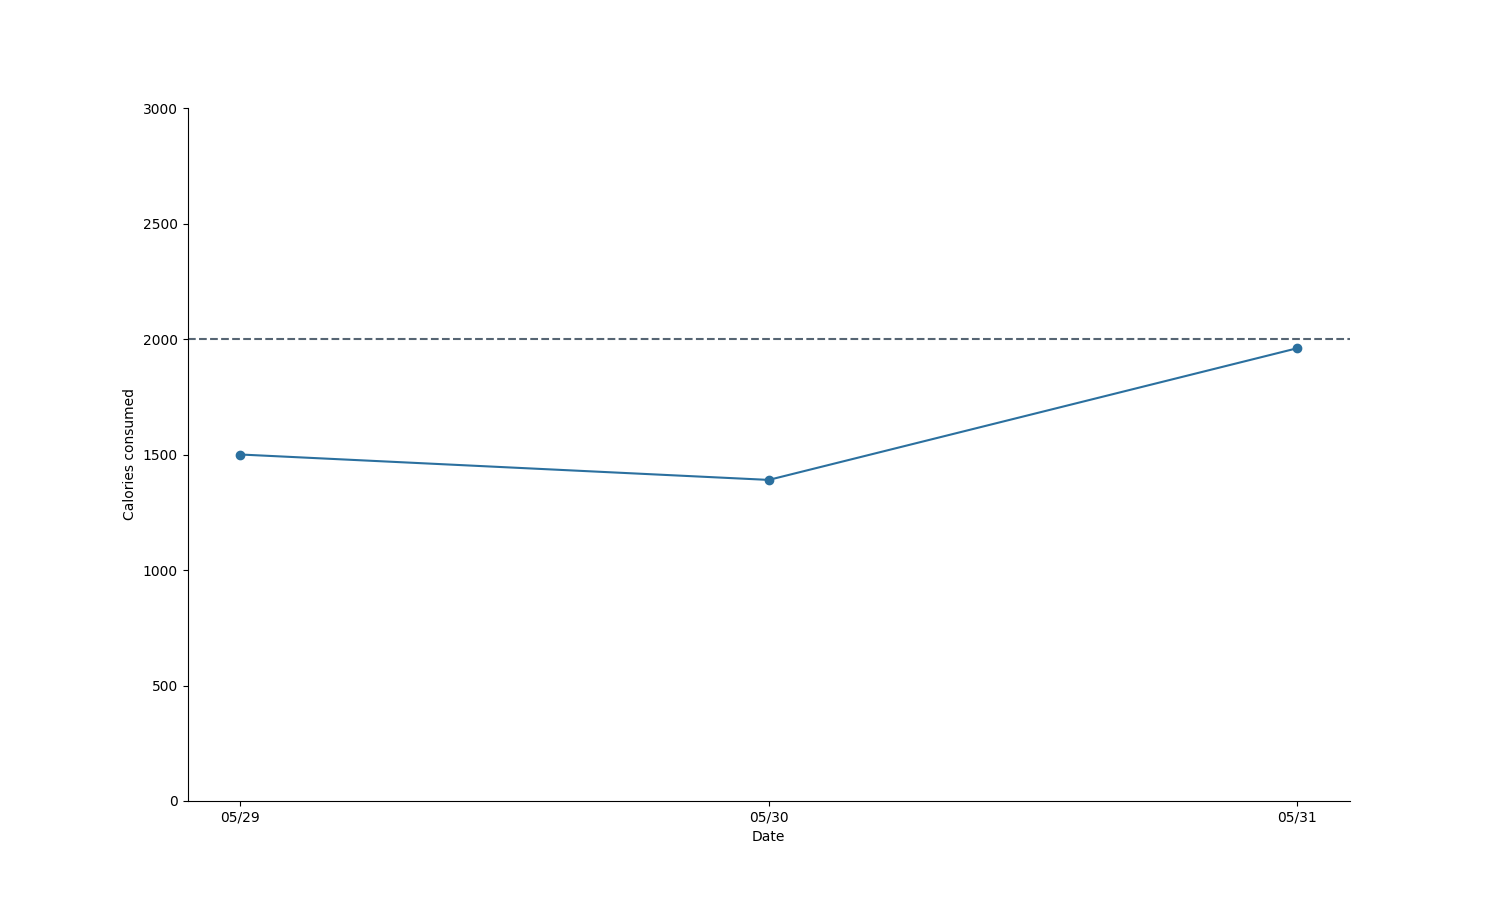
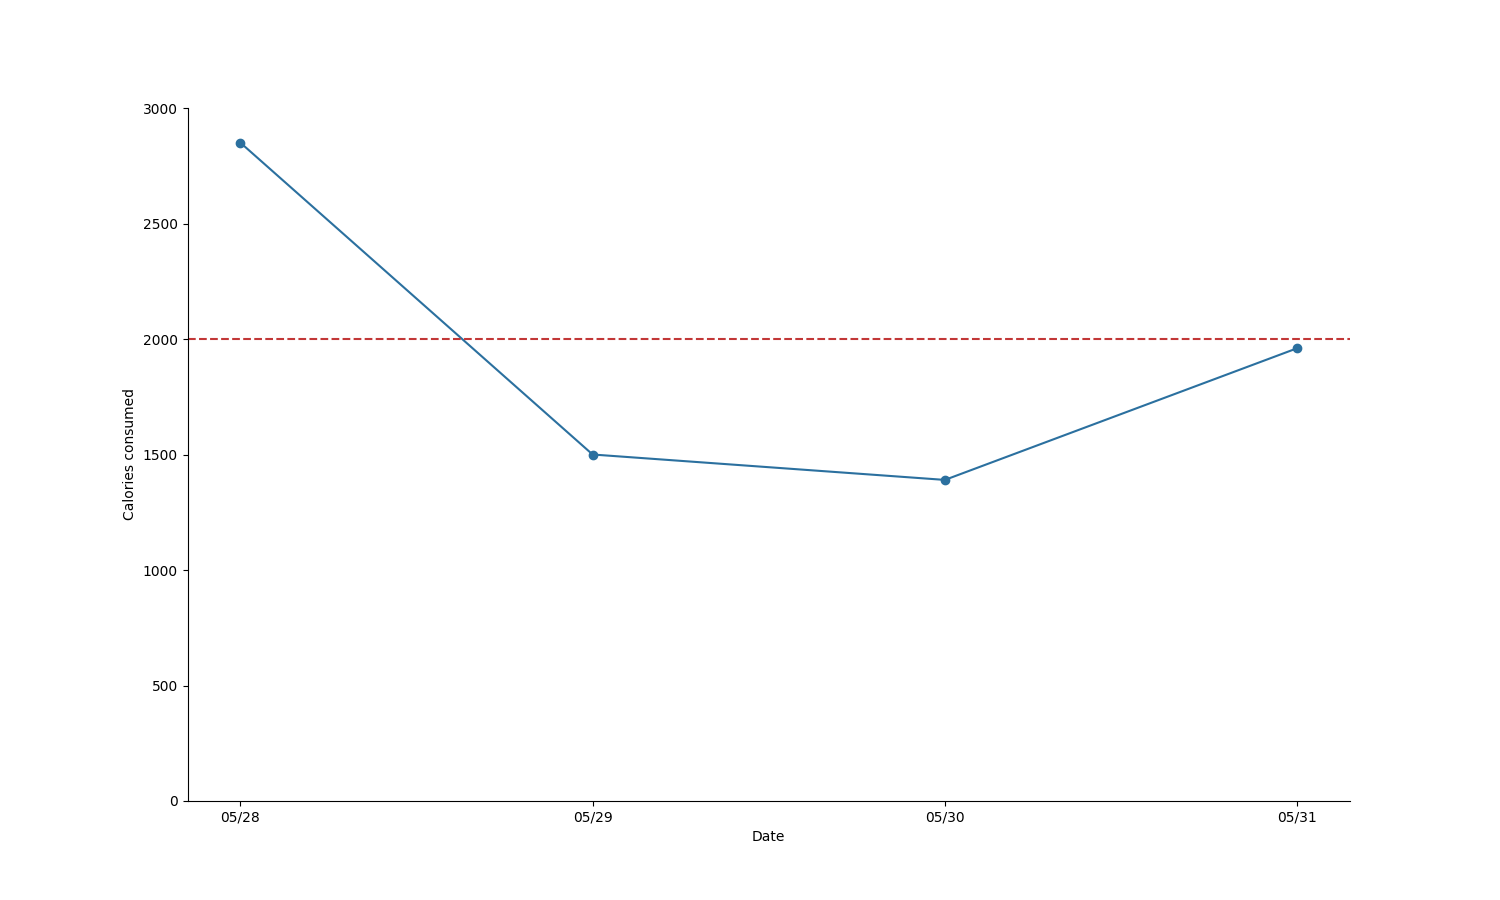
Tuesday

diff --git a/log.py b/log.py
@@ -18,7 +18,7 @@ ax.set_xlabel('Date')
 ax.set_ylabel('Calories consumed')
 
 plt.plot(data.keys(), data.values(), color='#2B709F', marker="o")
-plt.axhline(y=2000, color="#566573", ls="--")
+plt.axhline(y=2000, color="#C23737", ls="--")
 plt.yticks([0, 500, 1000, 1500, 2000, 2500, 3000])
 
 ax.spines['right'].set_visible(False)
